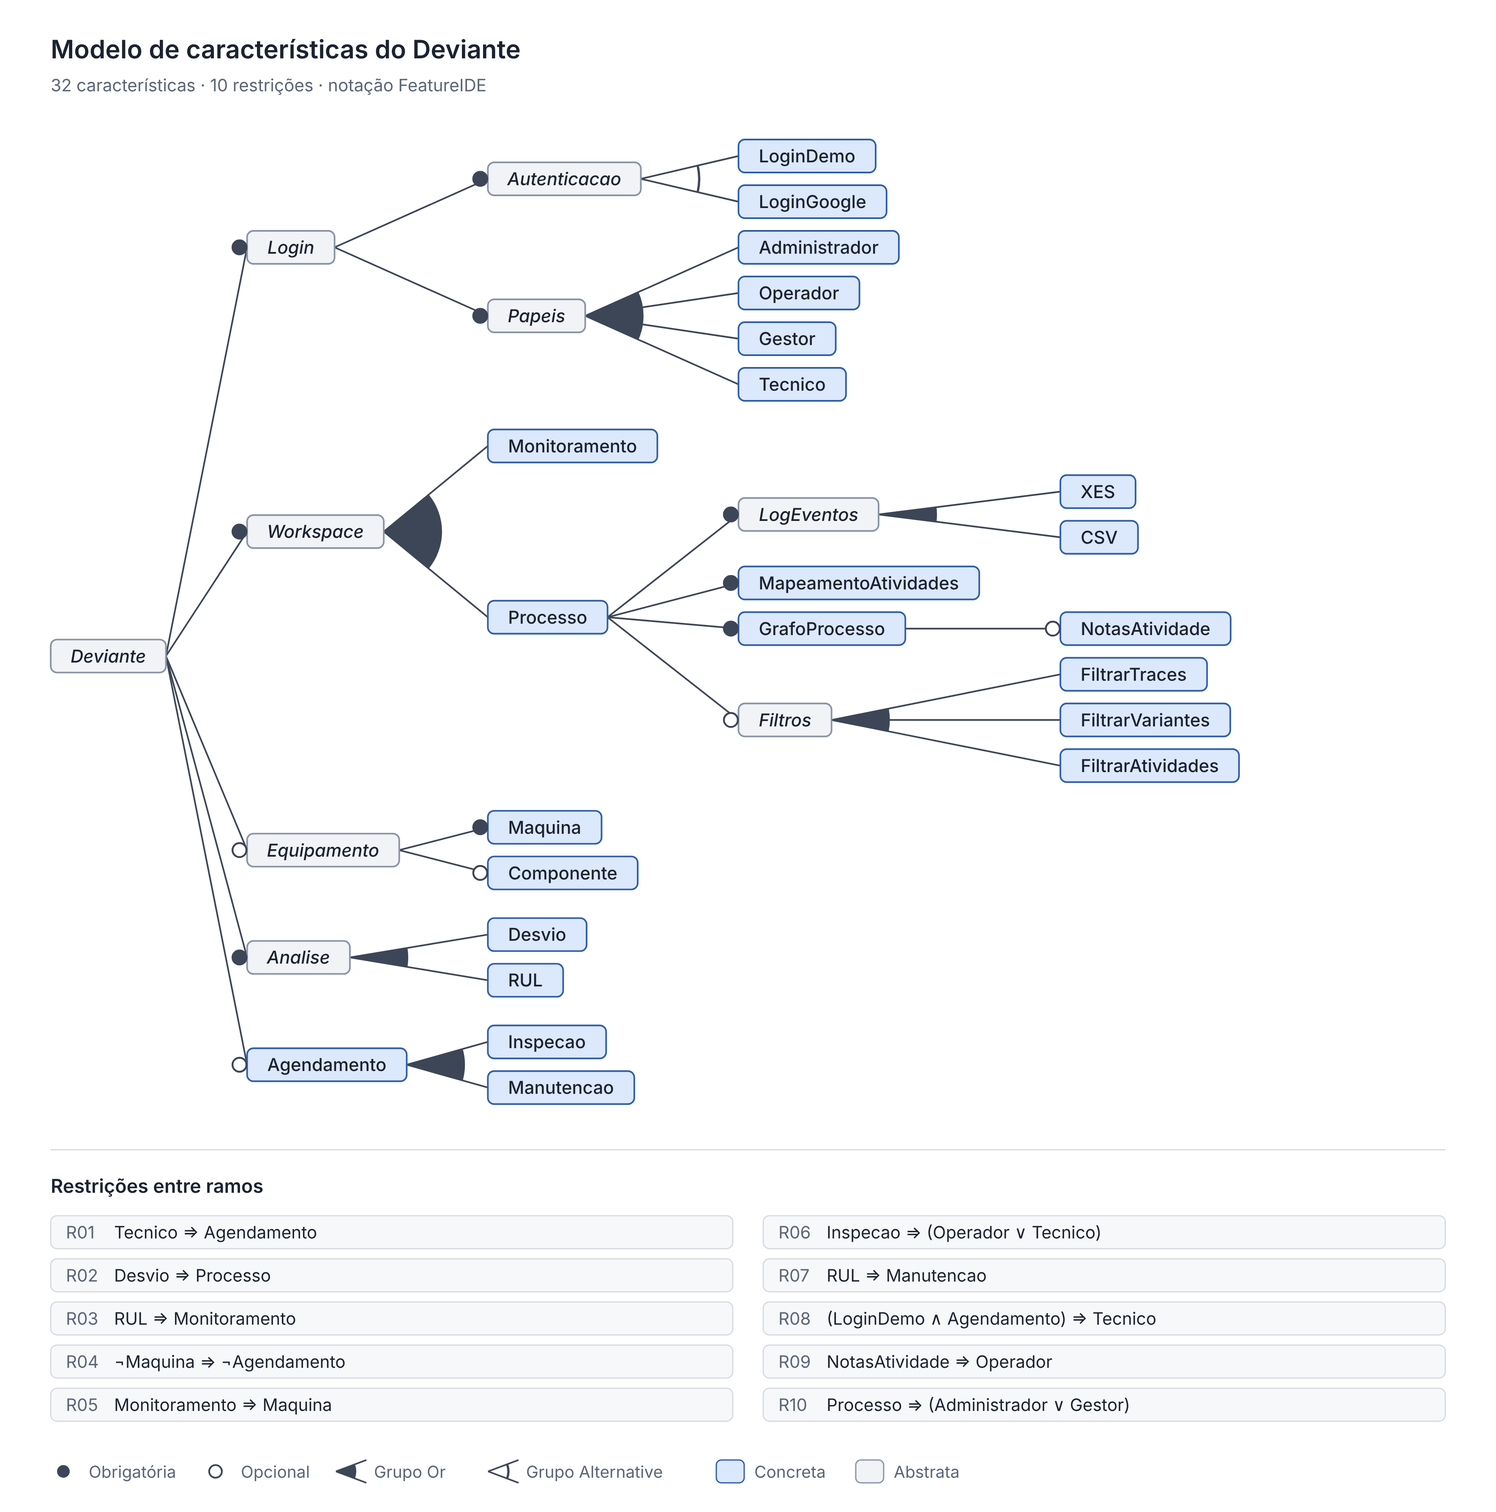
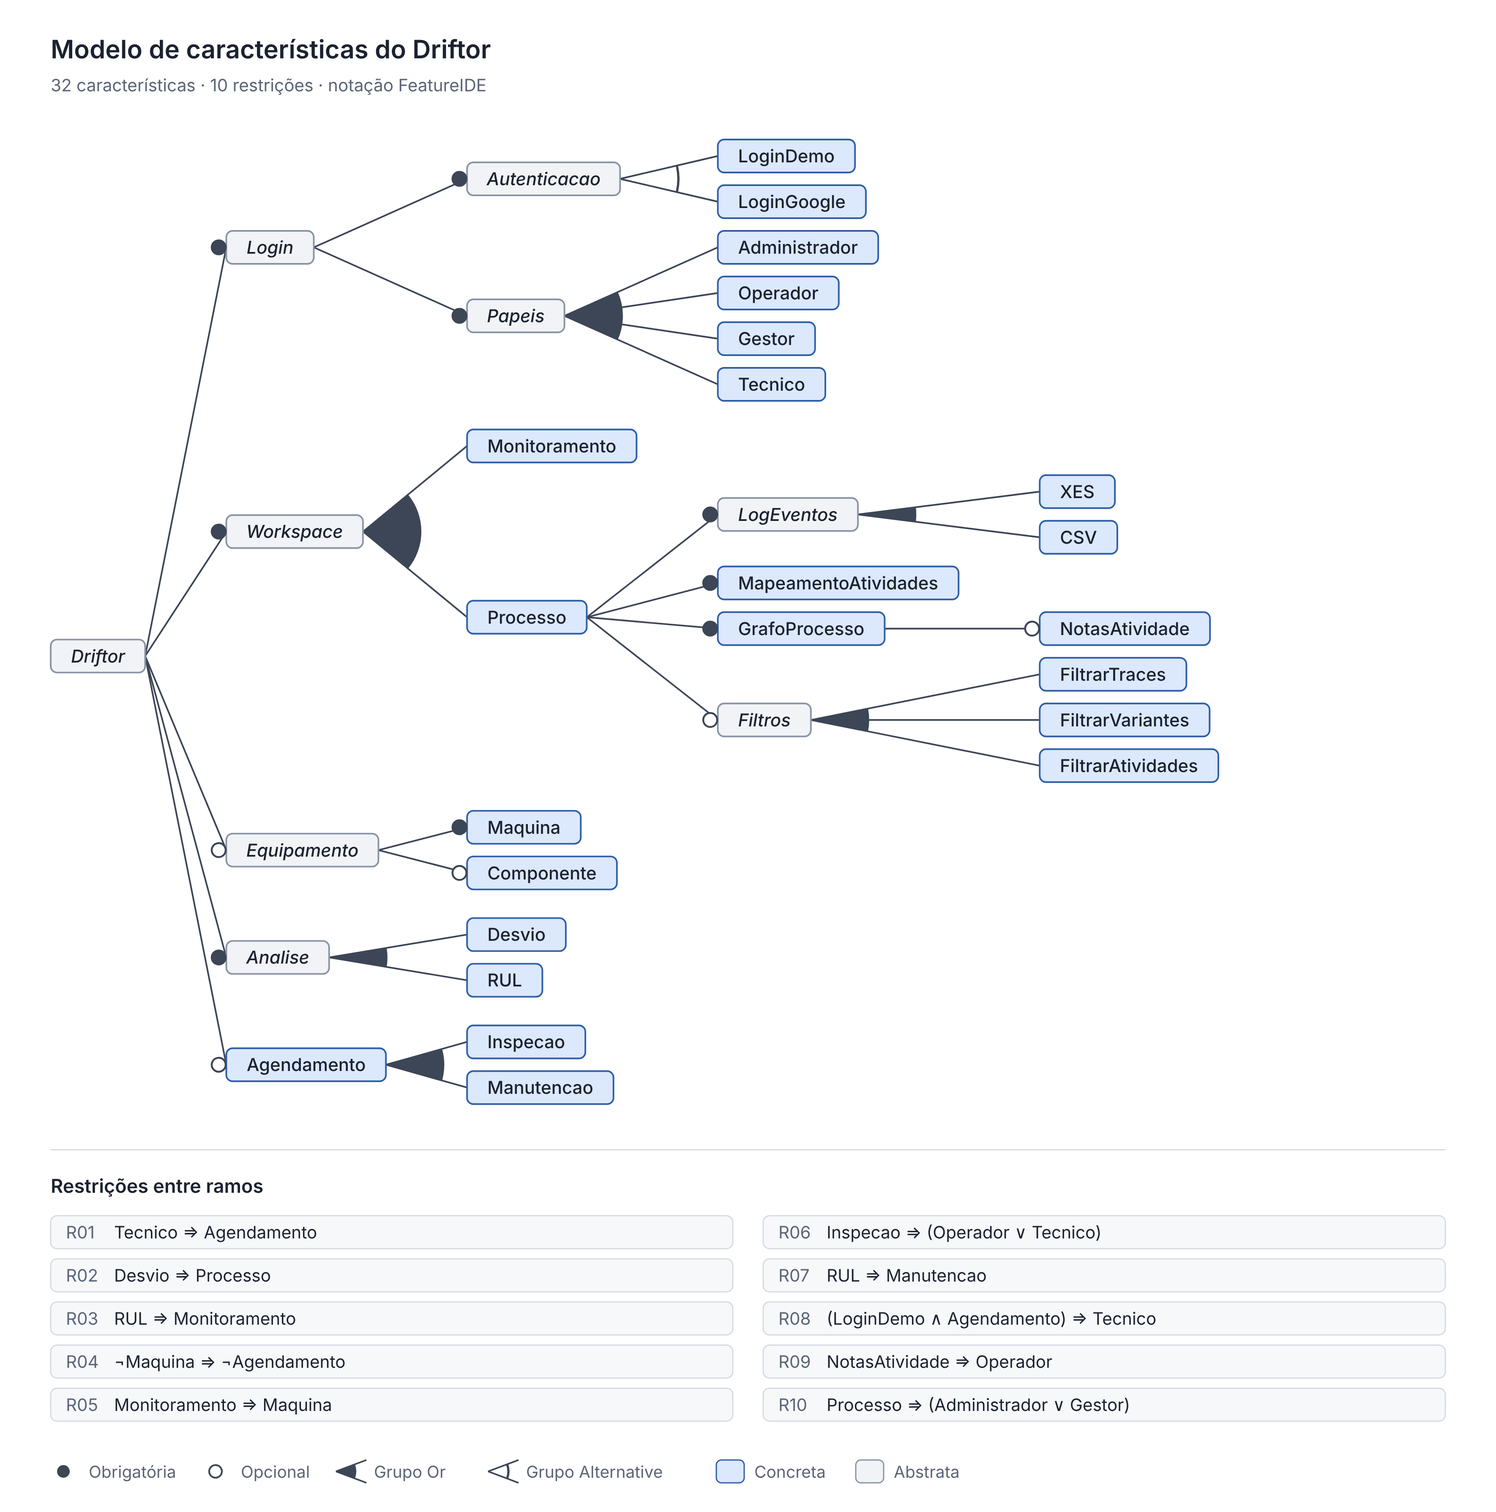
Reuso Partes I e II: produto passa a se chamar Driftor
Claude-Session: https://claude.ai/code/session_01Rd7ezaaWW7sfq1WiDzid94

diff --git a/Desenvolvimento Orientado a Reuso/featureide/gerar.py b/Desenvolvimento Orientado a Reuso/featureide/gerar.py
@@ -1,4 +1,4 @@
-"""Fonte única do modelo de características do Deviante.
+"""Fonte única do modelo de características do Driftor.
 
 Gera model.xml (FeatureIDE), um arquivo de configuração por empresa,
 valida o modelo com SAT (features mortas, falso-opcionais, restrições
@@ -16,7 +16,7 @@ AQUI = Path(__file__).parent
 def F(nome, rotulo, grupo="and", abstrata=False, obrig=False, filhos=()):
     return dict(nome=nome, rotulo=rotulo, grupo=grupo, abstrata=abstrata, obrig=obrig, filhos=list(filhos))
 
-MODELO = F("Deviante", "Deviante", abstrata=True, obrig=True, filhos=[
+MODELO = F("Driftor", "Driftor", abstrata=True, obrig=True, filhos=[
     F("Login", "Login", abstrata=True, obrig=True, filhos=[
         F("Autenticacao", "Autenticação", "alt", abstrata=True, obrig=True, filhos=[
             F("LoginDemo", "Login demo"),
@@ -83,7 +83,7 @@ RESTRICOES = [
 
 # Configurações (features concretas e de plano escolhidas; o resto é derivado)
 EMPRESAS = {
-    "Deviante": ["LoginGoogle", "XES", "CSV", "Processo", "MapeamentoAtividades", "GrafoProcesso", "NotasAtividade", "FiltrarTraces", "FiltrarVariantes", "FiltrarAtividades", "Desvio", "Administrador", "Gestor", "Operador", "Maquina", "Monitoramento", "RUL", "Manutencao", "Tecnico"],
+    "Driftor": ["LoginGoogle", "XES", "CSV", "Processo", "MapeamentoAtividades", "GrafoProcesso", "NotasAtividade", "FiltrarTraces", "FiltrarVariantes", "FiltrarAtividades", "Desvio", "Administrador", "Gestor", "Operador", "Maquina", "Monitoramento", "RUL", "Manutencao", "Tecnico"],
     "Alfa": ["LoginDemo", "XES", "Processo", "MapeamentoAtividades", "GrafoProcesso", "NotasAtividade", "FiltrarTraces", "FiltrarVariantes", "FiltrarAtividades", "Desvio", "Administrador", "Gestor", "Operador", "Maquina", "Monitoramento", "Manutencao", "Tecnico"],
     "Beta": ["LoginDemo", "CSV", "Processo", "MapeamentoAtividades", "GrafoProcesso", "NotasAtividade", "FiltrarTraces", "FiltrarVariantes", "FiltrarAtividades", "Desvio", "Administrador", "Gestor", "Operador"],
     "Gama": ["LoginDemo", "XES", "Processo", "MapeamentoAtividades", "GrafoProcesso", "NotasAtividade", "FiltrarTraces", "FiltrarVariantes", "FiltrarAtividades", "Desvio", "Administrador", "Gestor", "Operador", "Maquina", "Monitoramento", "RUL", "Manutencao", "Tecnico"],
@@ -158,7 +158,7 @@ def gerar_configs():
 IDS = {nome: i for i, nome in zip(count(1), NOS)}
 
 def cnf_arvore():
-    cl = [[IDS["Deviante"]]]
+    cl = [[IDS["Driftor"]]]
     for n, p in todos():
         x = IDS[n["nome"]]
         if p:

diff --git a/Desenvolvimento Orientado a Reuso/featureide/renderizar.py b/Desenvolvimento Orientado a Reuso/featureide/renderizar.py
@@ -61,7 +61,7 @@ out = []
 A = out.append
 A(f'<svg xmlns="http://www.w3.org/2000/svg" width="{W}" height="{H}" viewBox="0 0 {W} {H}" font-family="Inter, Segoe UI, Arial, sans-serif">')
 A(f'<rect width="{W}" height="{H}" fill="#ffffff"/>')
-A(f'<text x="40" y="46" font-size="{F_TIT}" font-weight="600" fill="{COR["texto"]}">Modelo de características do Deviante</text>')
+A(f'<text x="40" y="46" font-size="{F_TIT}" font-weight="600" fill="{COR["texto"]}">Modelo de características do Driftor</text>')
 A(f'<text x="40" y="72" font-size="13.5" fill="{COR["fraco"]}">{len(list(nos(MODELO)))} características · {len(RESTRICOES)} restrições · notação FeatureIDE</text>')
 
 def grupo(px, py, pts, tipo, r):

diff --git a/Desenvolvimento Orientado a Reuso/parte-2-mpsbr.md b/Desenvolvimento Orientado a Reuso/parte-2-mpsbr.md
@@ -6,13 +6,13 @@ Legenda: **Verde** = resultado atendido; **Amarelo** = atendido em parte; **Verm
 
 Propósito do processo (nível E, Parcialmente Definido): gerenciar o ciclo de vida dos ativos reutilizáveis.
 
-O Deviante tem seis ativos reutilizáveis catalogados: modelo de variabilidade e requisitos, arquitetura de referência e modelo de dados multiempresa, núcleo da linha de produto no Core, motor de análise, componentes de interface (pacote `@deviante/ui` 1.0.0) e testes automatizados com bases de teste.
+O Driftor tem seis ativos reutilizáveis catalogados: modelo de variabilidade e requisitos, arquitetura de referência e modelo de dados multiempresa, núcleo da linha de produto no Core, motor de análise, componentes de interface (pacote versionado, versão 1.0.0) e testes automatizados com bases de teste.
 
-| Resultado | Situação | Evidência no Deviante | Adequação proposta |
+| Resultado | Situação | Evidência no Driftor | Adequação proposta |
 |---|---|---|---|
 | **GRU 1.** Estratégia de gerenciamento de ativos documentada, com definição de ativo reutilizável e critérios de aceitação, certificação, classificação, descontinuidade e avaliação | Amarelo | O documento de ativos reutilizáveis define o que é ativo e classifica os seis ativos pelos quatro tipos de artefato de domínio (requisito, arquitetura, componente e teste). Não há critérios de aceitação, certificação, descontinuidade nem avaliação. | Completar o documento com uma seção de estratégia: um ativo só é aceito se tiver dono, documentação de uso, ponto de variação explícito e teste automatizado; é certificado quando passa nos testes e na revisão de código; é descontinuado quando nenhuma variante o usa por dois ciclos de entrega; e é avaliado a cada entrega pela quantidade de telas e variantes que o reutilizam. |
-| **GRU 2.** Mecanismo de armazenamento e recuperação de ativos implantado | Verde | Os ativos ficam nos repositórios GitHub do projeto (Core, web e documentação). Os componentes de interface são um pacote versionado (`@deviante/ui` 1.0.0) consumido pelo front. O catálogo indica onde está cada ativo. | Manter. Como melhoria, publicar o pacote de interface num registro (GitHub Packages) para que outros projetos o instalem pela versão. |
-| **GRU 3.** Dados de utilização dos ativos registrados | Vermelho | Não há registro de quem usa cada ativo. A tabela "Telas e os ativos que elas reutilizam" mostra o uso planejado, mas não é atualizada a cada mudança. | Registrar o uso no próprio catálogo: para cada ativo, as telas, variantes e versões que o usam, atualizadas a cada entrega. Uma verificação automática no CI pode listar os imports de `@deviante/ui` e do núcleo da linha de produto e gerar essa tabela. |
+| **GRU 2.** Mecanismo de armazenamento e recuperação de ativos implantado | Verde | Os ativos ficam nos repositórios GitHub do projeto (Core, web e documentação). Os componentes de interface são um pacote versionado (versão 1.0.0) consumido pelo front. O catálogo indica onde está cada ativo. | Manter. Como melhoria, publicar o pacote de interface num registro (GitHub Packages) para que outros projetos o instalem pela versão. |
+| **GRU 3.** Dados de utilização dos ativos registrados | Vermelho | Não há registro de quem usa cada ativo. A tabela "Telas e os ativos que elas reutilizam" mostra o uso planejado, mas não é atualizada a cada mudança. | Registrar o uso no próprio catálogo: para cada ativo, as telas, variantes e versões que o usam, atualizadas a cada entrega. Uma verificação automática no CI pode listar os imports do pacote de interface e do núcleo da linha de produto e gerar essa tabela. |
 | **GRU 4.** Ativos mantidos periodicamente segundo os critérios definidos, com modificações controladas ao longo do ciclo de vida | Amarelo | Toda modificação é controlada pelo Git (histórico, autoria e commits por mudança), e o pacote de interface tem versão. Não há manutenção periódica planejada nem critérios para ela. | Definir uma revisão dos ativos a cada entrega, com base nos critérios do GRU 1, e versionar cada ativo com versionamento semântico e um registro de mudanças (CHANGELOG). |
 | **GRU 5.** Usuários dos ativos notificados sobre problemas, modificações, novas versões e descontinuidade | Vermelho | Não há notificação. Quem usa um ativo só descobre uma mudança lendo o histórico do repositório. | Publicar cada nova versão como release no GitHub, com notas de mudança, e avisar no canal do grupo. Problemas e descontinuidades viram issues marcadas com o nome do ativo, que notificam quem acompanha o repositório. |
 
@@ -24,7 +24,7 @@ O enunciado pede a classificação dos resultados DRU 1 a 9 e a adequação dos 
 
 ### 2.1 Classificação dos resultados DRU 1 a 5
 
-| Resultado | Situação | Evidência no Deviante |
+| Resultado | Situação | Evidência no Driftor |
 |---|---|---|
 | **DRU 1.** Domínios de aplicação identificados, com o potencial de reutilização | Amarelo | O domínio está claro na arquitetura (mineração de processos e manutenção industrial), e o produto é tratado como linha de produto para várias empresas. O potencial de reutilização de cada domínio não foi analisado nem registrado. |
 | **DRU 2.** Capacidade de reutilização sistemática avaliada, com ações corretivas | Vermelho | Não houve avaliação formal da capacidade de reutilização do grupo. Esta avaliação MPS.BR é a primeira. |
@@ -34,7 +34,7 @@ O enunciado pede a classificação dos resultados DRU 1 a 9 e a adequação dos 
 
 ### 2.2 Classificação e adequação dos resultados DRU 6 a 9
 
-| Resultado | Situação | Evidência no Deviante | Adequação proposta |
+| Resultado | Situação | Evidência no Driftor | Adequação proposta |
 |---|---|---|---|
 | **DRU 6.** Formas de representação para modelos de domínio e arquiteturas de domínio selecionadas | Verde | O modelo de domínio é representado por um diagrama de características na notação FODA estendida (FeatureIDE), e a arquitetura segue o arc42 com diagramas C4 e UML. | Registrar essa escolha como uma decisão de arquitetura (ADR), com o motivo de cada notação, para que novos ativos e domínios usem as mesmas representações. |
 | **DRU 7.** Modelo de domínio desenvolvido, com limites e relações com outros domínios, capturando características comuns, variantes, opcionais e obrigatórias | Amarelo | O modelo de características da Parte I captura as funções comuns, variantes, opcionais e obrigatórias, com 10 restrições e uma configuração por empresa. Os limites do domínio e as relações com domínios vizinhos (pesquisa em mineração de processos, sensores industriais) não estão descritos. | Acrescentar ao modelo um texto de escopo do domínio (o que fica dentro e fora) e um diagrama de contexto com os domínios relacionados. Revisar o modelo a cada nova função e manter o arquivo do FeatureIDE versionado junto com o código. |

diff --git a/Desenvolvimento Orientado a Reuso/featureide/README.md b/Desenvolvimento Orientado a Reuso/featureide/README.md
@@ -1,8 +1,8 @@
 # Parte I: modelo de características (FeatureIDE)
 
-![Modelo de características do Deviante](modelo-de-caracteristicas.png)
+![Modelo de características do Driftor](modelo-de-caracteristicas.png)
 
-O modelo tem 32 características e 10 restrições. Ele descreve as variações do Deviante entre empresas clientes (Deviante, Alfa, Beta, Gama, Delta) e entre papéis de usuário (administrador, gestor, operador e técnico).
+O modelo tem 32 características e 10 restrições. Ele descreve as variações do Driftor entre empresas clientes (Driftor, Alfa, Beta, Gama, Delta) e entre papéis de usuário (administrador, gestor, operador e técnico).
 
 A imagem acima é a versão em alta resolução, gerada do mesmo modelo. A imagem exportada do FeatureIDE (Eclipse) está em [`modelo-eclipse.png`](modelo-eclipse.png).
 
@@ -11,7 +11,7 @@ A imagem acima é a versão em alta resolução, gerada do mesmo modelo. A image
 | Arquivo | O que é |
 |---|---|
 | `model.xml` | Modelo para abrir no FeatureIDE (Eclipse) |
-| `configs/*.xml` | Uma configuração por empresa: Deviante, Alfa, Beta, Gama, Delta |
+| `configs/*.xml` | Uma configuração por empresa: Driftor, Alfa, Beta, Gama, Delta |
 | `modelo-eclipse.png` | Diagrama exportado do FeatureIDE |
 | `modelo-de-caracteristicas.png` / `.svg` | Diagrama em alta resolução |
 | `gerar.py` | Fonte única: gera `model.xml` e as configurações e valida o modelo por SAT |
@@ -26,7 +26,7 @@ A imagem acima é a versão em alta resolução, gerada do mesmo modelo. A image
 - **Login**: como se entra (Autenticacao: login demo ou Google) e com qual papel (Papeis).
 - **Workspace**: os dois espaços de trabalho onde o usuário cria algo para analisar: Processo (log de eventos, mapeamento de atividades, grafo e filtros) e Monitoramento (máquinas acompanhadas).
 - **Equipamento**: cadastro de máquinas e de seus componentes, independente do monitoramento.
-- **Analise**: o que o Deviante calcula: desvio de processo (drift) e vida útil restante (RUL).
+- **Analise**: o que o Driftor calcula: desvio de processo (drift) e vida útil restante (RUL).
 - **Agendamento**: intervenções agendadas nas máquinas: inspeção e manutenção.
 
 Uma característica filha é parte da mãe e só existe com ela. Quem usa cada função não é hierarquia: aparece nas restrições com Papeis.
@@ -35,12 +35,12 @@ Uma característica filha é parte da mãe e só existe com ela. Quem usa cada f
 
 | Tipo | Características | Justificativa |
 |---|---|---|
-| **Abstrata** | Deviante, Login, Autenticacao, Papeis, Workspace, LogEventos, Filtros, Equipamento, Analise | Só organizam a árvore e não têm um trecho de código próprio. Equipamento, por exemplo, agrupa Máquina e Componente, que são as telas de fato. |
+| **Abstrata** | Driftor, Login, Autenticacao, Papeis, Workspace, LogEventos, Filtros, Equipamento, Analise | Só organizam a árvore e não têm um trecho de código próprio. Equipamento, por exemplo, agrupa Máquina e Componente, que são as telas de fato. |
 | **Concreta** | LoginDemo, LoginGoogle, os quatro papéis, Monitoramento, Processo, XES, CSV, MapeamentoAtividades, GrafoProcesso, NotasAtividade, os três filtros, Maquina, Componente, Desvio, RUL, Agendamento, Inspecao, Manutencao | Cada uma corresponde a uma tela, rota ou função do sistema. Agendamento é concreta porque a agenda é uma tela própria, além dos tipos de intervenção. |
 | **Obrigatória** | Login, Autenticacao, Papeis, Workspace, Analise; LogEventos, MapeamentoAtividades e GrafoProcesso dentro de Processo; Maquina dentro de Equipamento | Todo produto tem entrada, papéis, ao menos um workspace e ao menos uma análise. Um processo sempre vem de um log, precisa do mapeamento para gerar as atividades e sempre mostra o grafo. Não há cadastro de equipamento sem máquina. |
 | **Opcional** | Equipamento, Agendamento, Componente, NotasAtividade, Filtros | Variam de cliente para cliente. Empresas só com processos (Beta, Delta) não têm equipamentos nem agenda. Componente é uma variação prevista: ainda não está implementado. |
 | **Grupo Or** (ao menos um) | Papeis; Workspace (Monitoramento, Processo); LogEventos (XES, CSV); Filtros; Analise (Desvio, RUL); Agendamento (Inspecao, Manutencao) | Um produto pode combinar livremente papéis, workspaces, formatos de log, filtros, análises e tipos de intervenção, mas precisa de ao menos um de cada grupo que tiver. |
-| **Grupo Alternative** (exatamente um) | Autenticacao (LoginDemo, LoginGoogle) | Cada empresa entra por um único método: a Deviante só pelo Google, as empresas do protótipo só pelo login demo. |
+| **Grupo Alternative** (exatamente um) | Autenticacao (LoginDemo, LoginGoogle) | Cada empresa entra por um único método: a Driftor só pelo Google, as empresas do protótipo só pelo login demo. |
 
 ## Restrições
 
@@ -63,7 +63,7 @@ As 10 restrições usam os quatro operadores pedidos: Implies (⇒) em todas, An
 
 | Empresa | LoginGoogle | LoginDemo | XES | CSV | Maquina | Monitoramento | RUL | Manutencao | Tecnico |
 |---|---|---|---|---|---|---|---|---|---|
-| Deviante | ✓ |  | ✓ | ✓ | ✓ | ✓ | ✓ | ✓ | ✓ |
+| Driftor | ✓ |  | ✓ | ✓ | ✓ | ✓ | ✓ | ✓ | ✓ |
 | Alfa |  | ✓ | ✓ |  | ✓ | ✓ |  | ✓ | ✓ |
 | Beta |  | ✓ |  | ✓ |  |  |  |  |  |
 | Gama |  | ✓ | ✓ |  | ✓ | ✓ | ✓ | ✓ | ✓ |

diff --git a/Desenvolvimento Orientado a Reuso/featureide/parte-1-modelo-de-caracteristicas.md b/Desenvolvimento Orientado a Reuso/featureide/parte-1-modelo-de-caracteristicas.md
@@ -1,16 +1,16 @@
-# Parte I: Modelo de características do Deviante
+# Parte I: Modelo de características do Driftor
 
 ## 1. Apresentação
 
-O Deviante é uma plataforma de mineração de processos e manutenção industrial. Ela detecta desvios de processo (concept drift) em logs de eventos e prevê a vida útil restante (RUL) das máquinas. O produto atende várias empresas clientes (Deviante, Alfa, Beta, Gama e Delta), e cada uma usa um conjunto diferente de funções. Dentro de cada empresa, quatro papéis de usuário (administrador, gestor, operador e técnico) veem e fazem coisas diferentes.
+O Driftor é uma plataforma de mineração de processos e manutenção industrial. Ela detecta desvios de processo (concept drift) em logs de eventos e prevê a vida útil restante (RUL) das máquinas. O produto atende várias empresas clientes (Driftor, Alfa, Beta, Gama e Delta), e cada uma usa um conjunto diferente de funções. Dentro de cada empresa, quatro papéis de usuário (administrador, gestor, operador e técnico) veem e fazem coisas diferentes.
 
 O modelo de características abaixo descreve essa variabilidade. Ele foi elaborado no FeatureIDE (Eclipse), em um diagrama de características na notação FODA estendida. O modelo tem 32 características e 10 restrições.
 
-[Figura 1: Modelo de características do Deviante, exportado do FeatureIDE]
+[Figura 1: Modelo de características do Driftor, exportado do FeatureIDE]
 
 ## 2. Estrutura do modelo
 
-A raiz, Deviante, tem cinco ramos:
+A raiz, Driftor, tem cinco ramos:
 
 - **Login**: como se entra no sistema (Autenticação, por login demo ou Google) e com qual papel (Papéis).
 - **Workspace**: os dois espaços de trabalho onde o usuário cria algo para analisar. O Processo traz o log de eventos, o mapeamento de atividades, o grafo e os filtros. O Monitoramento acompanha as máquinas.
@@ -24,7 +24,7 @@ Critério adotado: uma característica filha é parte da mãe e só existe com e
 
 ### 3.1 Abstract (abstrata)
 
-**Características:** Deviante, Login, Autenticação, Papéis, Workspace, LogEventos, Filtros, Equipamento, Análise.
+**Características:** Driftor, Login, Autenticação, Papéis, Workspace, LogEventos, Filtros, Equipamento, Análise.
 
 **Justificativa:** essas características só organizam a árvore e não correspondem a um trecho de código próprio. Equipamento, por exemplo, apenas agrupa Máquina e Componente, que são as telas de fato. LogEventos agrupa os formatos aceitos, e Filtros agrupa os três tipos de filtro.
 
@@ -56,7 +56,7 @@ Critério adotado: uma característica filha é parte da mãe e só existe com e
 
 **Grupo:** Autenticação (LoginDemo, LoginGoogle).
 
-**Justificativa:** cada empresa entra por um único método. A empresa Deviante entra só pelo Google, e as empresas do protótipo entram só pelo login demo. Os dois métodos nunca convivem na mesma configuração.
+**Justificativa:** cada empresa entra por um único método. A empresa Driftor entra só pelo Google, e as empresas do protótipo entram só pelo login demo. Os dois métodos nunca convivem na mesma configuração.
 
 ## 4. Restrições (constraints)
 
@@ -83,7 +83,7 @@ Cada empresa cliente é uma configuração válida do modelo.
 
 | Empresa | Login | Log | Máquina | Monitoramento | RUL | Manutenção | Técnico |
 |---|---|---|---|---|---|---|---|
-| Deviante | Google | XES e CSV | ✓ | ✓ | ✓ | ✓ | ✓ |
+| Driftor | Google | XES e CSV | ✓ | ✓ | ✓ | ✓ | ✓ |
 | Alfa | Demo | XES | ✓ | ✓ | | ✓ | ✓ |
 | Beta | Demo | CSV | | | | | |
 | Gama | Demo | XES | ✓ | ✓ | ✓ | ✓ | ✓ |
